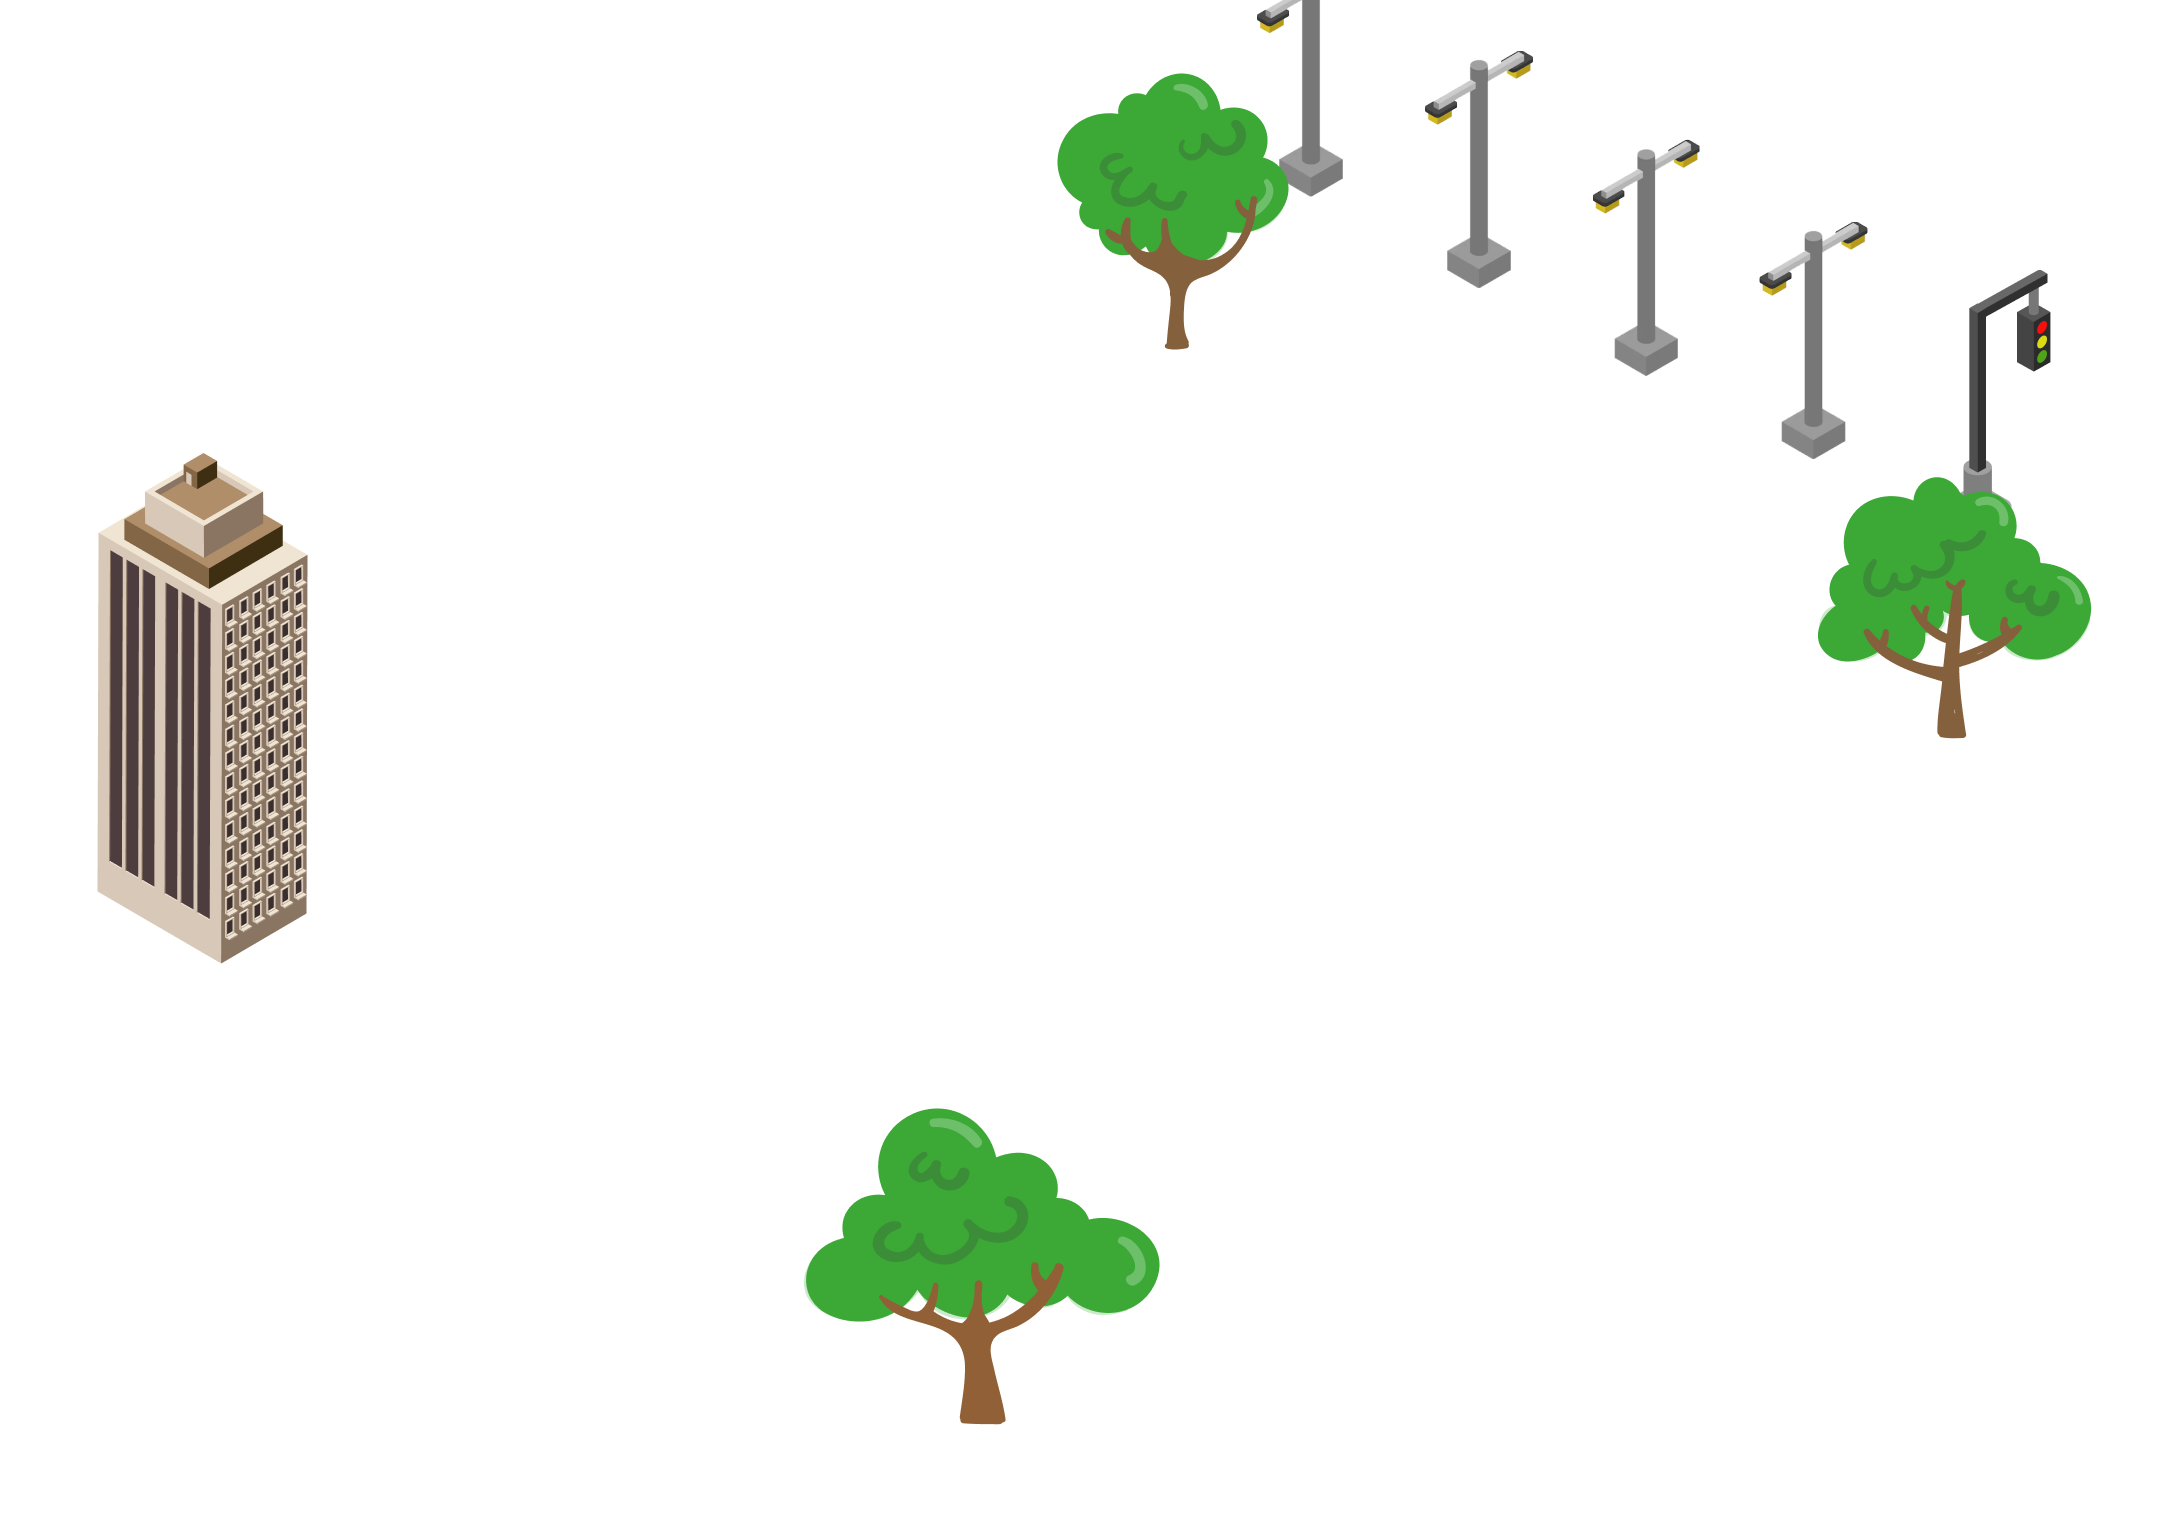
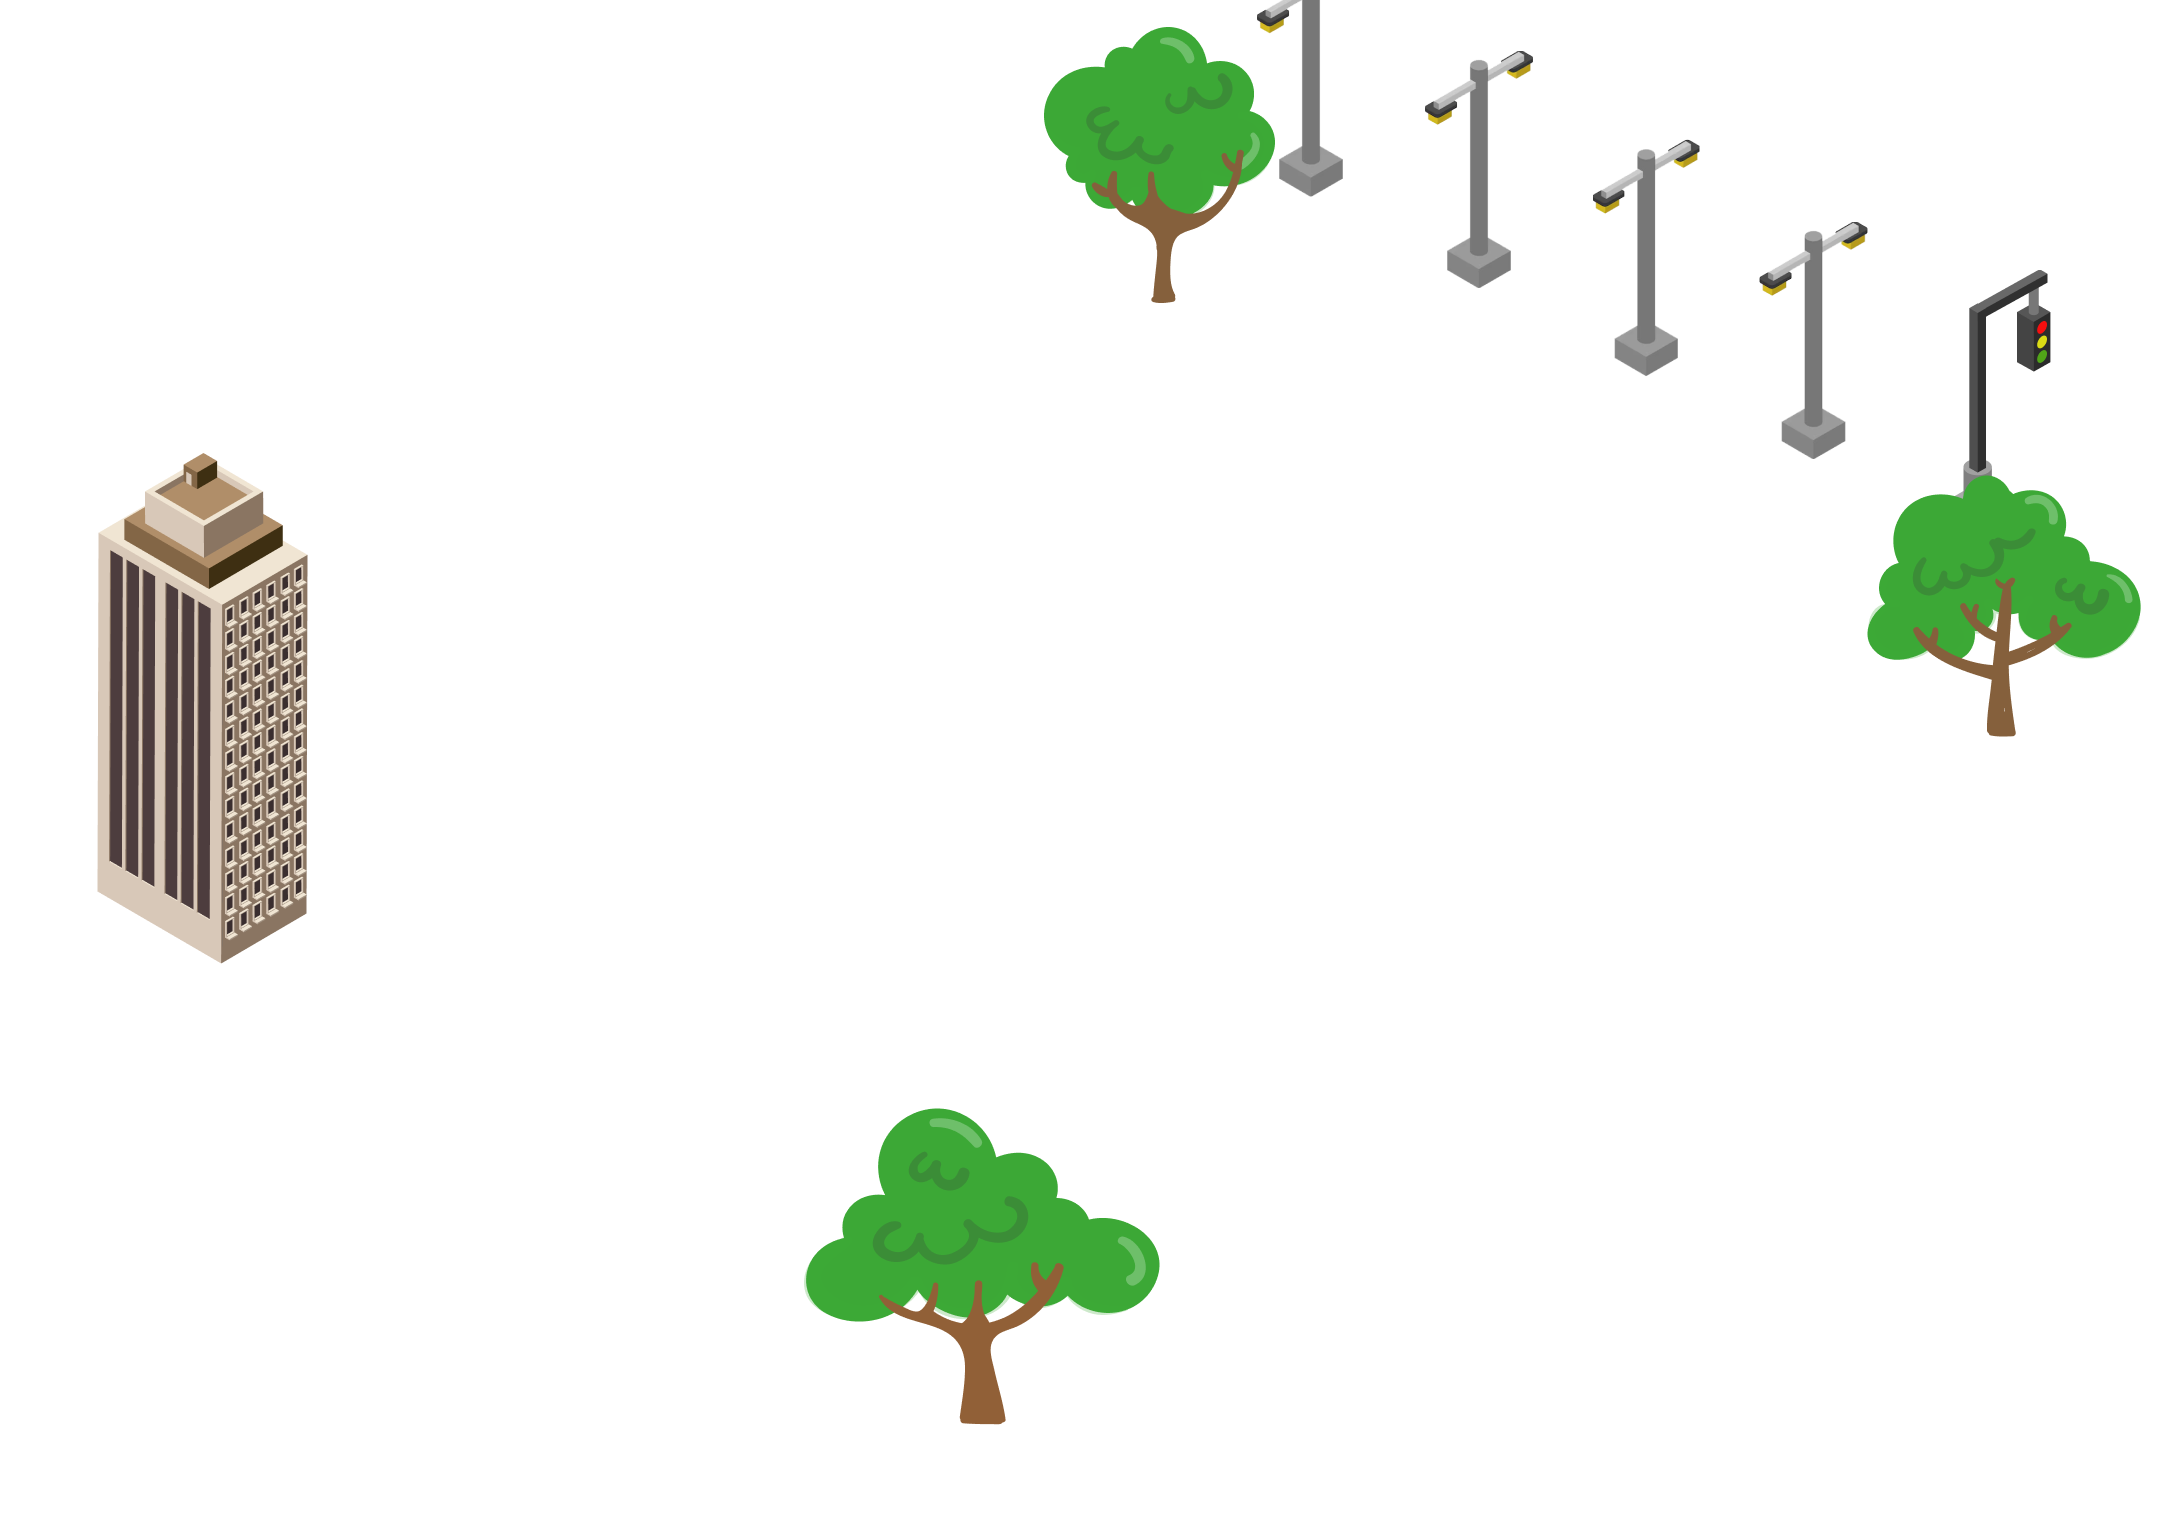
暫時更新 1. 調整遊戲背景樹木圖位置 2. 新增 red_done 用戶已打卡的旗標顯示(後續會程式判斷顯示與否) 3. 讀取目前用戶資料庫裡的積分

Changed region(s): [[0.8375, 0.3125, 0.9926, 0.5], [0.4653, 0.0, 0.6204, 0.2188]]

diff --git a/src/assets/images/MessionGeneral/red_done.vue b/src/assets/images/MessionGeneral/red_done.vue
@@ -1,0 +1,84 @@
+<template>
+
+<svg width="1440" height="1024" viewBox="0 0 1440 1024" fill="none" xmlns="http://www.w3.org/2000/svg">
+<g clip-path="url(#clip0_4573_8405)">
+<path d="M1439.5 0.5H0.5V1023.5H1439.5V0.5Z" stroke="black"/>
+<path d="M360 458.723V511.622" stroke="black" stroke-width="5"/>
+<path d="M403 474.861L361.75 491.196V458.527L403 474.861Z" fill="#FF0000"/>
+<path d="M443 609.723V662.622" stroke="black" stroke-width="5"/>
+<path d="M486 625.861L444.75 642.196V609.527L486 625.861Z" fill="#FF0000"/>
+<path d="M672 635.723V688.622" stroke="black" stroke-width="5"/>
+<path d="M715 651.861L673.75 668.196V635.527L715 651.861Z" fill="#FF0000"/>
+<path d="M1137 410.589V463.488" stroke="black" stroke-width="5"/>
+<path d="M1180 426.861L1138.75 443.196V410.527L1180 426.861Z" fill="#FF0000"/>
+<path d="M1221 446.589V499.488" stroke="black" stroke-width="5"/>
+<path d="M1264 462.861L1222.75 479.196V446.527L1264 462.861Z" fill="#FF0000"/>
+<path d="M1144 498.589V551.488" stroke="black" stroke-width="5"/>
+<path d="M1187 514.861L1145.75 531.196V498.527L1187 514.861Z" fill="#FF0000"/>
+<path d="M1068 556.589V609.488" stroke="black" stroke-width="5"/>
+<path d="M1111 572.861L1069.75 589.196V556.527L1111 572.861Z" fill="#FF0000"/>
+<path d="M991 615.589V668.488" stroke="black" stroke-width="5"/>
+<path d="M1034 631.861L992.75 648.196V615.527L1034 631.861Z" fill="#FF0000"/>
+<path d="M911 670.589V723.488" stroke="black" stroke-width="5"/>
+<path d="M954 686.861L912.75 703.196V670.527L954 686.861Z" fill="#FF0000"/>
+<path d="M973 234.589V287.488" stroke="black" stroke-width="5"/>
+<path d="M1016 250.861L974.75 267.196V234.527L1016 250.861Z" fill="#FF0000"/>
+<path d="M1056 276.589V329.488" stroke="black" stroke-width="5"/>
+<path d="M1099 292.861L1057.75 309.196V276.527L1099 292.861Z" fill="#FF0000"/>
+<path d="M1141 316.589V369.488" stroke="black" stroke-width="5"/>
+<path d="M1184 332.861L1142.75 349.196V316.527L1184 332.861Z" fill="#FF0000"/>
+<path d="M1221 361.589V414.488" stroke="black" stroke-width="5"/>
+<path d="M1264 377.861L1222.75 394.196V361.527L1264 377.861Z" fill="#FF0000"/>
+<path d="M842 724.723V777.622" stroke="black" stroke-width="5"/>
+<path d="M885 740.861L843.75 757.196V724.527L885 740.861Z" fill="#FF0000"/>
+<path d="M439 501.723V554.622" stroke="black" stroke-width="5"/>
+<path d="M482 517.861L440.75 534.196V501.527L482 517.861Z" fill="#FF0000"/>
+<path d="M439 501.723V554.622" stroke="black" stroke-width="5"/>
+<path d="M482 517.861L440.75 534.196V501.527L482 517.861Z" fill="#FF0000"/>
+<path d="M756 679.723V732.622" stroke="black" stroke-width="5"/>
+<path d="M799 695.861L757.75 712.196V679.527L799 695.861Z" fill="#FF0000"/>
+<path d="M599 699.723V752.622" stroke="black" stroke-width="5"/>
+<path d="M642 715.861L600.75 732.196V699.527L642 715.861Z" fill="#FF0000"/>
+<path d="M520 746.723V799.622" stroke="black" stroke-width="5"/>
+<path d="M563 762.861L521.75 779.196V746.527L563 762.861Z" fill="#FF0000"/>
+<path d="M434 705.723V758.622" stroke="black" stroke-width="5"/>
+<path d="M477 721.861L435.75 738.196V705.527L477 721.861Z" fill="#FF0000"/>
+<path d="M434 705.723V758.622" stroke="black" stroke-width="5"/>
+<path d="M477 721.861L435.75 738.196V705.527L477 721.861Z" fill="#FF0000"/>
+<path d="M357 660.723V713.622" stroke="black" stroke-width="5"/>
+<path d="M400 676.861L358.75 693.196V660.527L400 676.861Z" fill="#FF0000"/>
+<path d="M524 550.723V603.622" stroke="black" stroke-width="5"/>
+<path d="M567 566.861L525.75 583.196V550.527L567 566.861Z" fill="#FF0000"/>
+<path d="M360 560.723V613.622" stroke="black" stroke-width="5"/>
+<path d="M403 576.861L361.75 593.196V560.527L403 576.861Z" fill="#FF0000"/>
+<path d="M446 405.723V458.622" stroke="black" stroke-width="5"/>
+<path d="M489 421.861L447.75 438.196V405.527L489 421.861Z" fill="#FF0000"/>
+<path d="M521 355.723V408.622" stroke="black" stroke-width="5"/>
+<path d="M564 371.861L522.75 388.196V355.527L564 371.861Z" fill="#FF0000"/>
+<path d="M598 302.723V355.622" stroke="black" stroke-width="5"/>
+<path d="M641 318.861L599.75 335.196V302.527L641 318.861Z" fill="#FF0000"/>
+<path d="M598 302.723V355.622" stroke="black" stroke-width="5"/>
+<path d="M641 318.861L599.75 335.196V302.527L641 318.861Z" fill="#FF0000"/>
+<path d="M679 249.723V302.622" stroke="black" stroke-width="5"/>
+<path d="M722 265.861L680.75 282.196V249.527L722 265.861Z" fill="#FF0000"/>
+<path d="M756 196.723V249.622" stroke="black" stroke-width="5"/>
+<path d="M799 212.861L757.75 229.196V196.527L799 212.861Z" fill="#FF0000"/>
+<path d="M756 196.723V249.622" stroke="black" stroke-width="5"/>
+<path d="M799 212.861L757.75 229.196V196.527L799 212.861Z" fill="#FF0000"/>
+<path d="M885 193.723V246.622" stroke="black" stroke-width="5"/>
+<path d="M928 209.861L886.75 226.196V193.527L928 209.861Z" fill="#FF0000"/>
+<path d="M885 193.723V246.622" stroke="black" stroke-width="5"/>
+<path d="M928 209.861L886.75 226.196V193.527L928 209.861Z" fill="#FF0000"/>
+</g>
+<defs>
+<clipPath id="clip0_4573_8405">
+<rect width="1440" height="1024" fill="white"/>
+</clipPath>
+</defs>
+</svg>
+
+
+
+
+
+</template>

diff --git a/src/views/MissionGeneralView.vue b/src/views/MissionGeneralView.vue
@@ -31,6 +31,7 @@
     import { inject } from "vue";       // 使用 inject 來接 app.vue provide 的 user 狀態
     const user_status = inject("user"); // 取得用戶狀態
 
+    const userTotalPoint =ref(0);
 
 
     import { setAlertInstance_location_inaccurate, setAlertInstance_userlocation } from '../js/view/MissionGeralView/geolocation';          // 引入 geolocation.js
@@ -156,7 +157,7 @@
             CheckUserStatus();     //等 3 秒再執行判斷用戶是否登入
         },3000)     
 
-        const userTotalPoint =ref(0);
+
 
         const GetUserPoint = async (uid) =>{ // 取得用戶點數
 
@@ -218,7 +219,7 @@
                     <path d="M24 2.64381C26.4323 4.0481 28.4521 6.06791 29.8564 8.50022C31.2607 10.9325 32 13.6916 32 16.5002C32 19.3088 31.2607 22.0679 29.8563 24.5002C28.452 26.9325 26.4322 28.9523 23.9998 30.3565C21.5675 31.7608 18.8084 32.5 15.9997 32.5C13.1911 32.5 10.432 31.7606 7.99974 30.3563C5.56744 28.9519 3.54766 26.9321 2.14342 24.4997C0.739168 22.0674 -7.13435e-05 19.3083 5.16424e-09 16.4997L0.00800019 15.9813C0.0976051 13.2181 0.901676 10.5253 2.34182 8.16536C3.78197 5.80543 5.80905 3.85893 8.22543 2.51563C10.6418 1.17232 13.365 0.478063 16.1296 0.500528C18.8942 0.522994 21.6058 1.26142 24 2.64381ZM16 6.89978C15.5757 6.89978 15.1687 7.06835 14.8686 7.36841C14.5686 7.66846 14.4 8.07543 14.4 8.49977C13.127 8.49977 11.9061 9.00548 11.0059 9.90565C10.1057 10.8058 9.6 12.0267 9.6 13.2997C9.6 14.5728 10.1057 15.7937 11.0059 16.6938C11.9061 17.594 13.127 18.0997 14.4 18.0997V21.2997C14.1346 21.3144 13.8697 21.264 13.6283 21.1531C13.3868 21.0421 13.1761 20.8738 13.0144 20.6629L12.9056 20.5013C12.6867 20.1482 12.3391 19.8942 11.9362 19.7928C11.5334 19.6915 11.1069 19.7507 10.747 19.9581C10.3871 20.1655 10.1219 20.5048 10.0076 20.9041C9.89326 21.3035 9.93874 21.7316 10.1344 22.0981C10.5428 22.8063 11.1253 23.3985 11.8267 23.8185C12.5282 24.2386 13.3252 24.4725 14.1424 24.4981H14.4C14.3997 24.8902 14.5434 25.2688 14.8038 25.562C15.0643 25.8552 15.4233 26.0426 15.8128 26.0884L16 26.0996C16.4243 26.0996 16.8313 25.9311 17.1314 25.631C17.4314 25.331 17.6 24.924 17.6 24.4997L17.8816 24.4917C19.129 24.4196 20.2991 23.8639 21.1433 22.9428C21.9875 22.0217 22.4392 20.8077 22.4026 19.5588C22.3659 18.3099 21.8437 17.1245 20.9469 16.2545C20.0501 15.3846 18.8494 14.8985 17.6 14.8997V11.6997C18.1728 11.6805 18.6736 11.9237 18.9856 12.3365L19.0944 12.4981C19.3133 12.8512 19.6609 13.1052 20.0638 13.2066C20.4666 13.308 20.8931 13.2487 21.253 13.0413C21.6129 12.8339 21.8781 12.4947 21.9924 12.0953C22.1067 11.6959 22.0613 11.2678 21.8656 10.9014C21.4574 10.1928 20.875 9.60027 20.1735 9.17997C19.4721 8.75967 18.6749 8.52553 17.8576 8.49977H17.6C17.6 8.07543 17.4314 7.66846 17.1314 7.36841C16.8313 7.06835 16.4243 6.89978 16 6.89978ZM17.6 18.0997C18.0243 18.0997 18.4313 18.2683 18.7314 18.5683C19.0314 18.8684 19.2 19.2753 19.2 19.6997C19.2 20.124 19.0314 20.531 18.7314 20.831C18.4313 21.1311 18.0243 21.2997 17.6 21.2997V18.0997ZM14.4 11.6997V14.8997C13.9757 14.8997 13.5687 14.7312 13.2686 14.4311C12.9686 14.131 12.8 13.7241 12.8 13.2997C12.8 12.8754 12.9686 12.4684 13.2686 12.1684C13.5687 11.8683 13.9757 11.6997 14.4 11.6997Z" fill="#FCD34D" />
                     </svg>
                 </div>
-                <div class="money title1 bold lineH_28px">{{ userTotalPoint}}</div>   
+                <div class="money title1 bold lineH_28px">{{ userTotalPoint }}</div>   
             </div>
         </div>
     </div>

diff --git a/src/views/line/red.vue b/src/views/line/red.vue
@@ -10,6 +10,7 @@
     import train2 from '../../assets/images/MessionGeneral/train2.vue';
     import car1 from '../../assets/images/MessionGeneral/car1.vue'
     import car2 from '../../assets/images/MessionGeneral/car2.vue'
+    import red_done from '../../assets/images/MessionGeneral/red_done.vue'
 
 
 
@@ -496,6 +497,9 @@
         </div>
         <div class="item">
             <station_red class="station"/>
+        </div>
+        <div class="item">
+            <red_done class="red_done"/>
         </div>
         <div class="item">
             <train1  ref="train_1_Ref"/>
